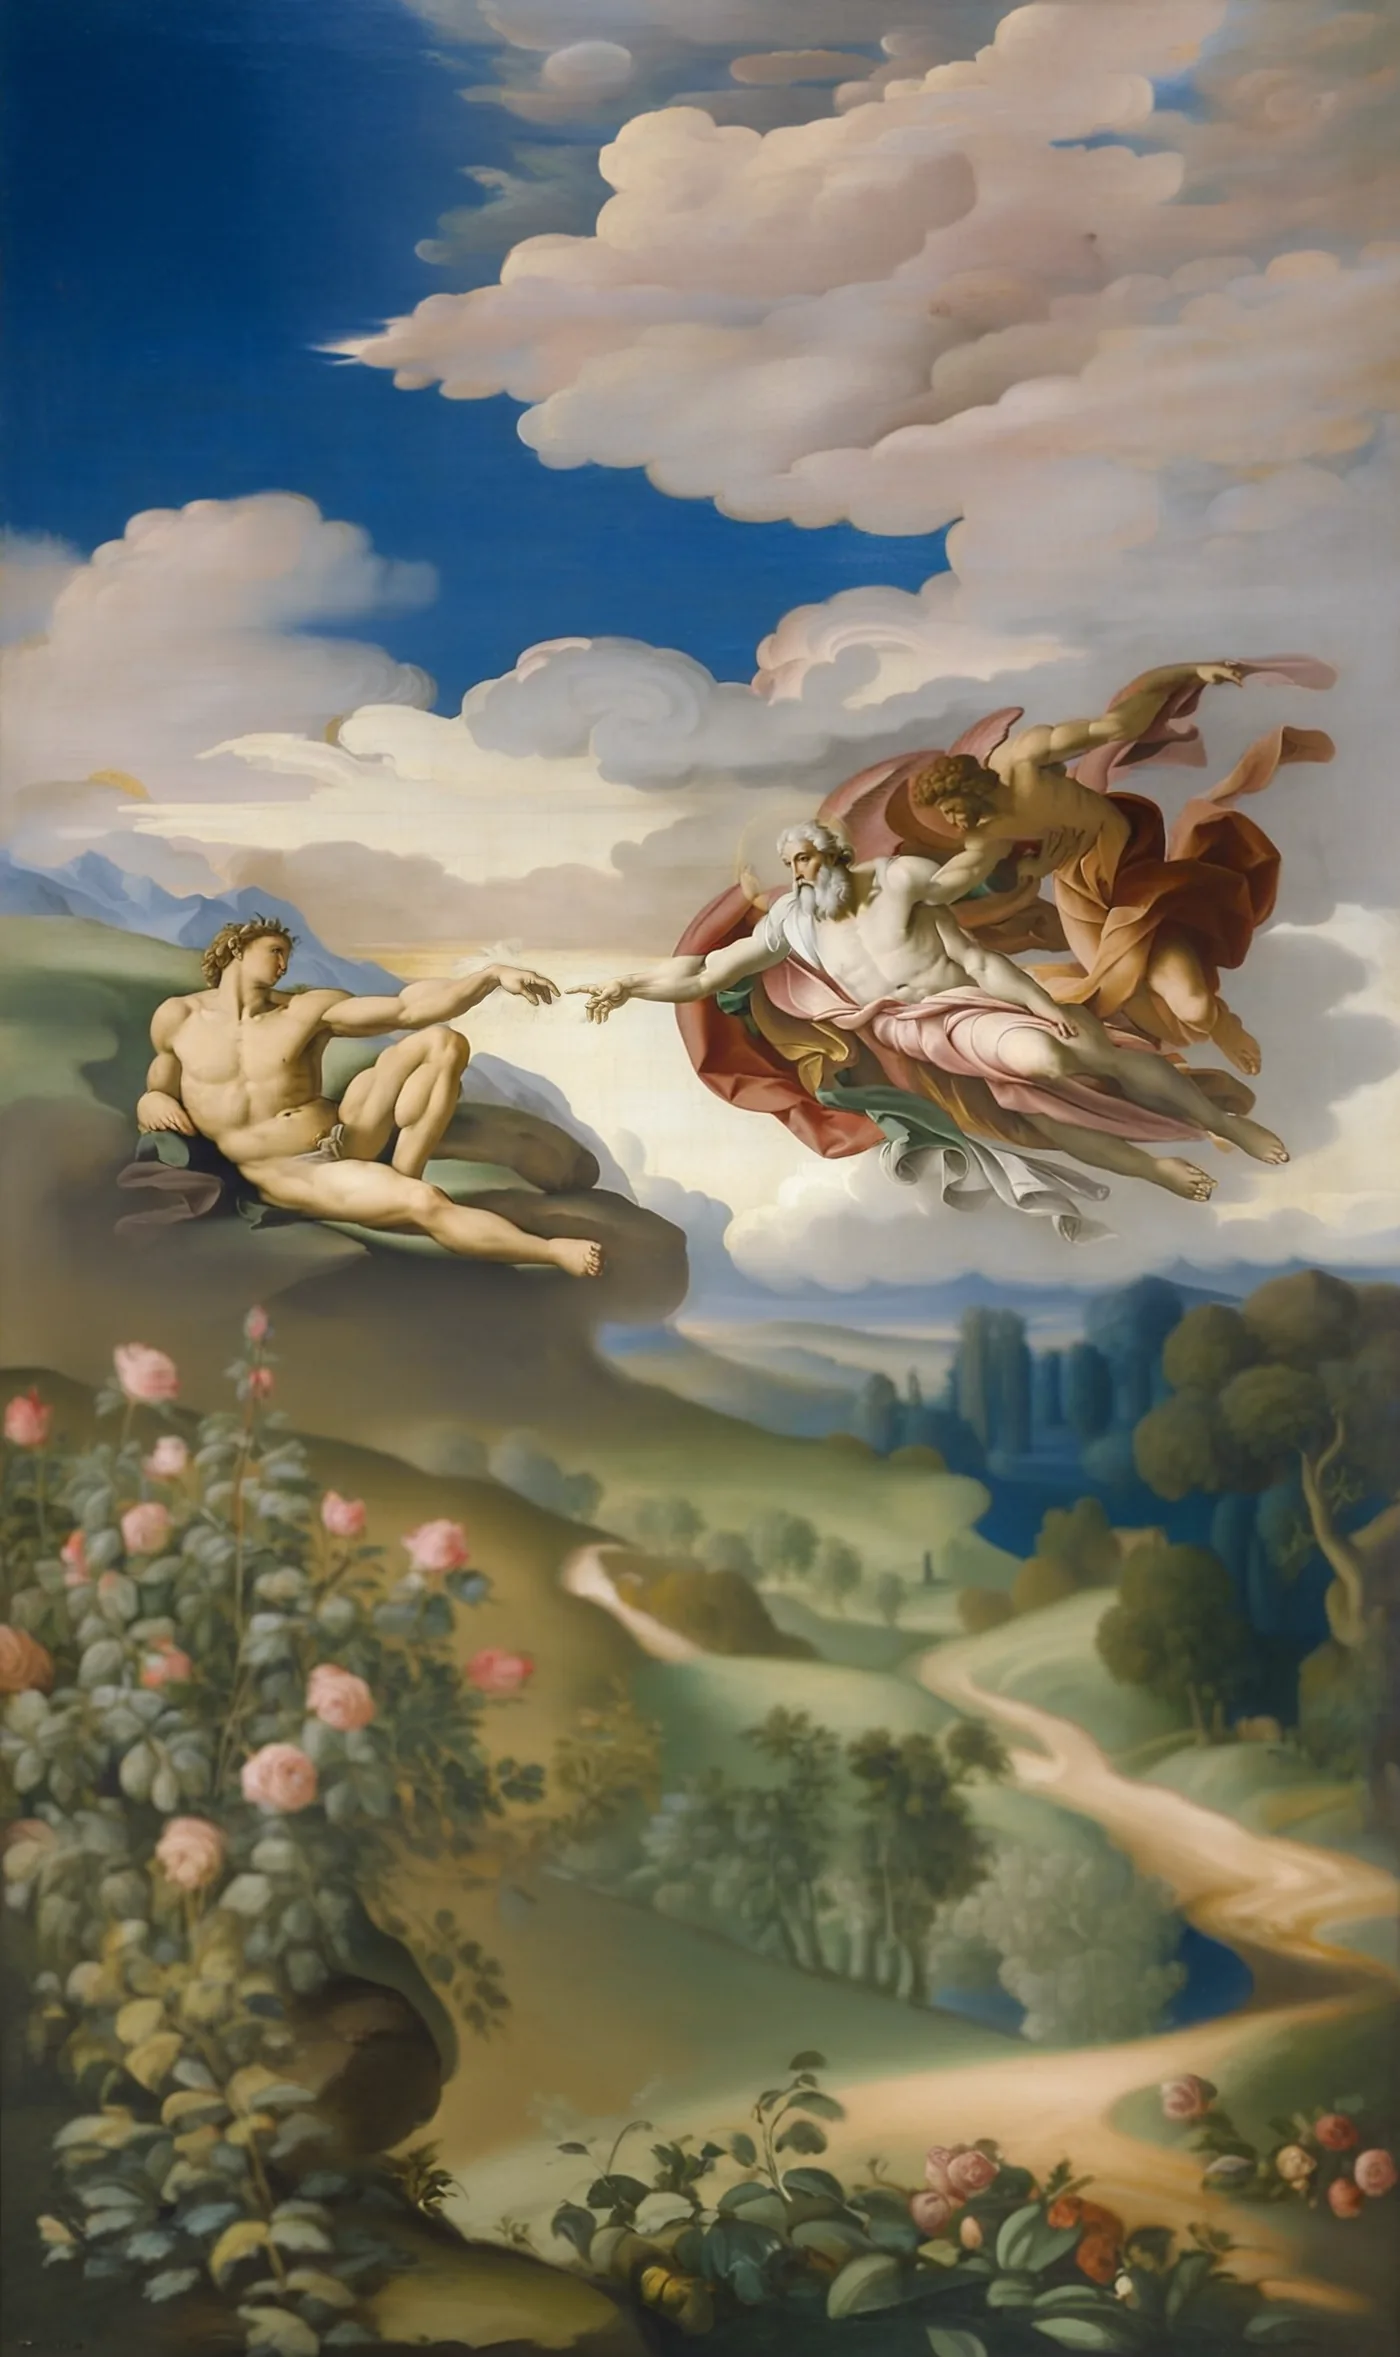
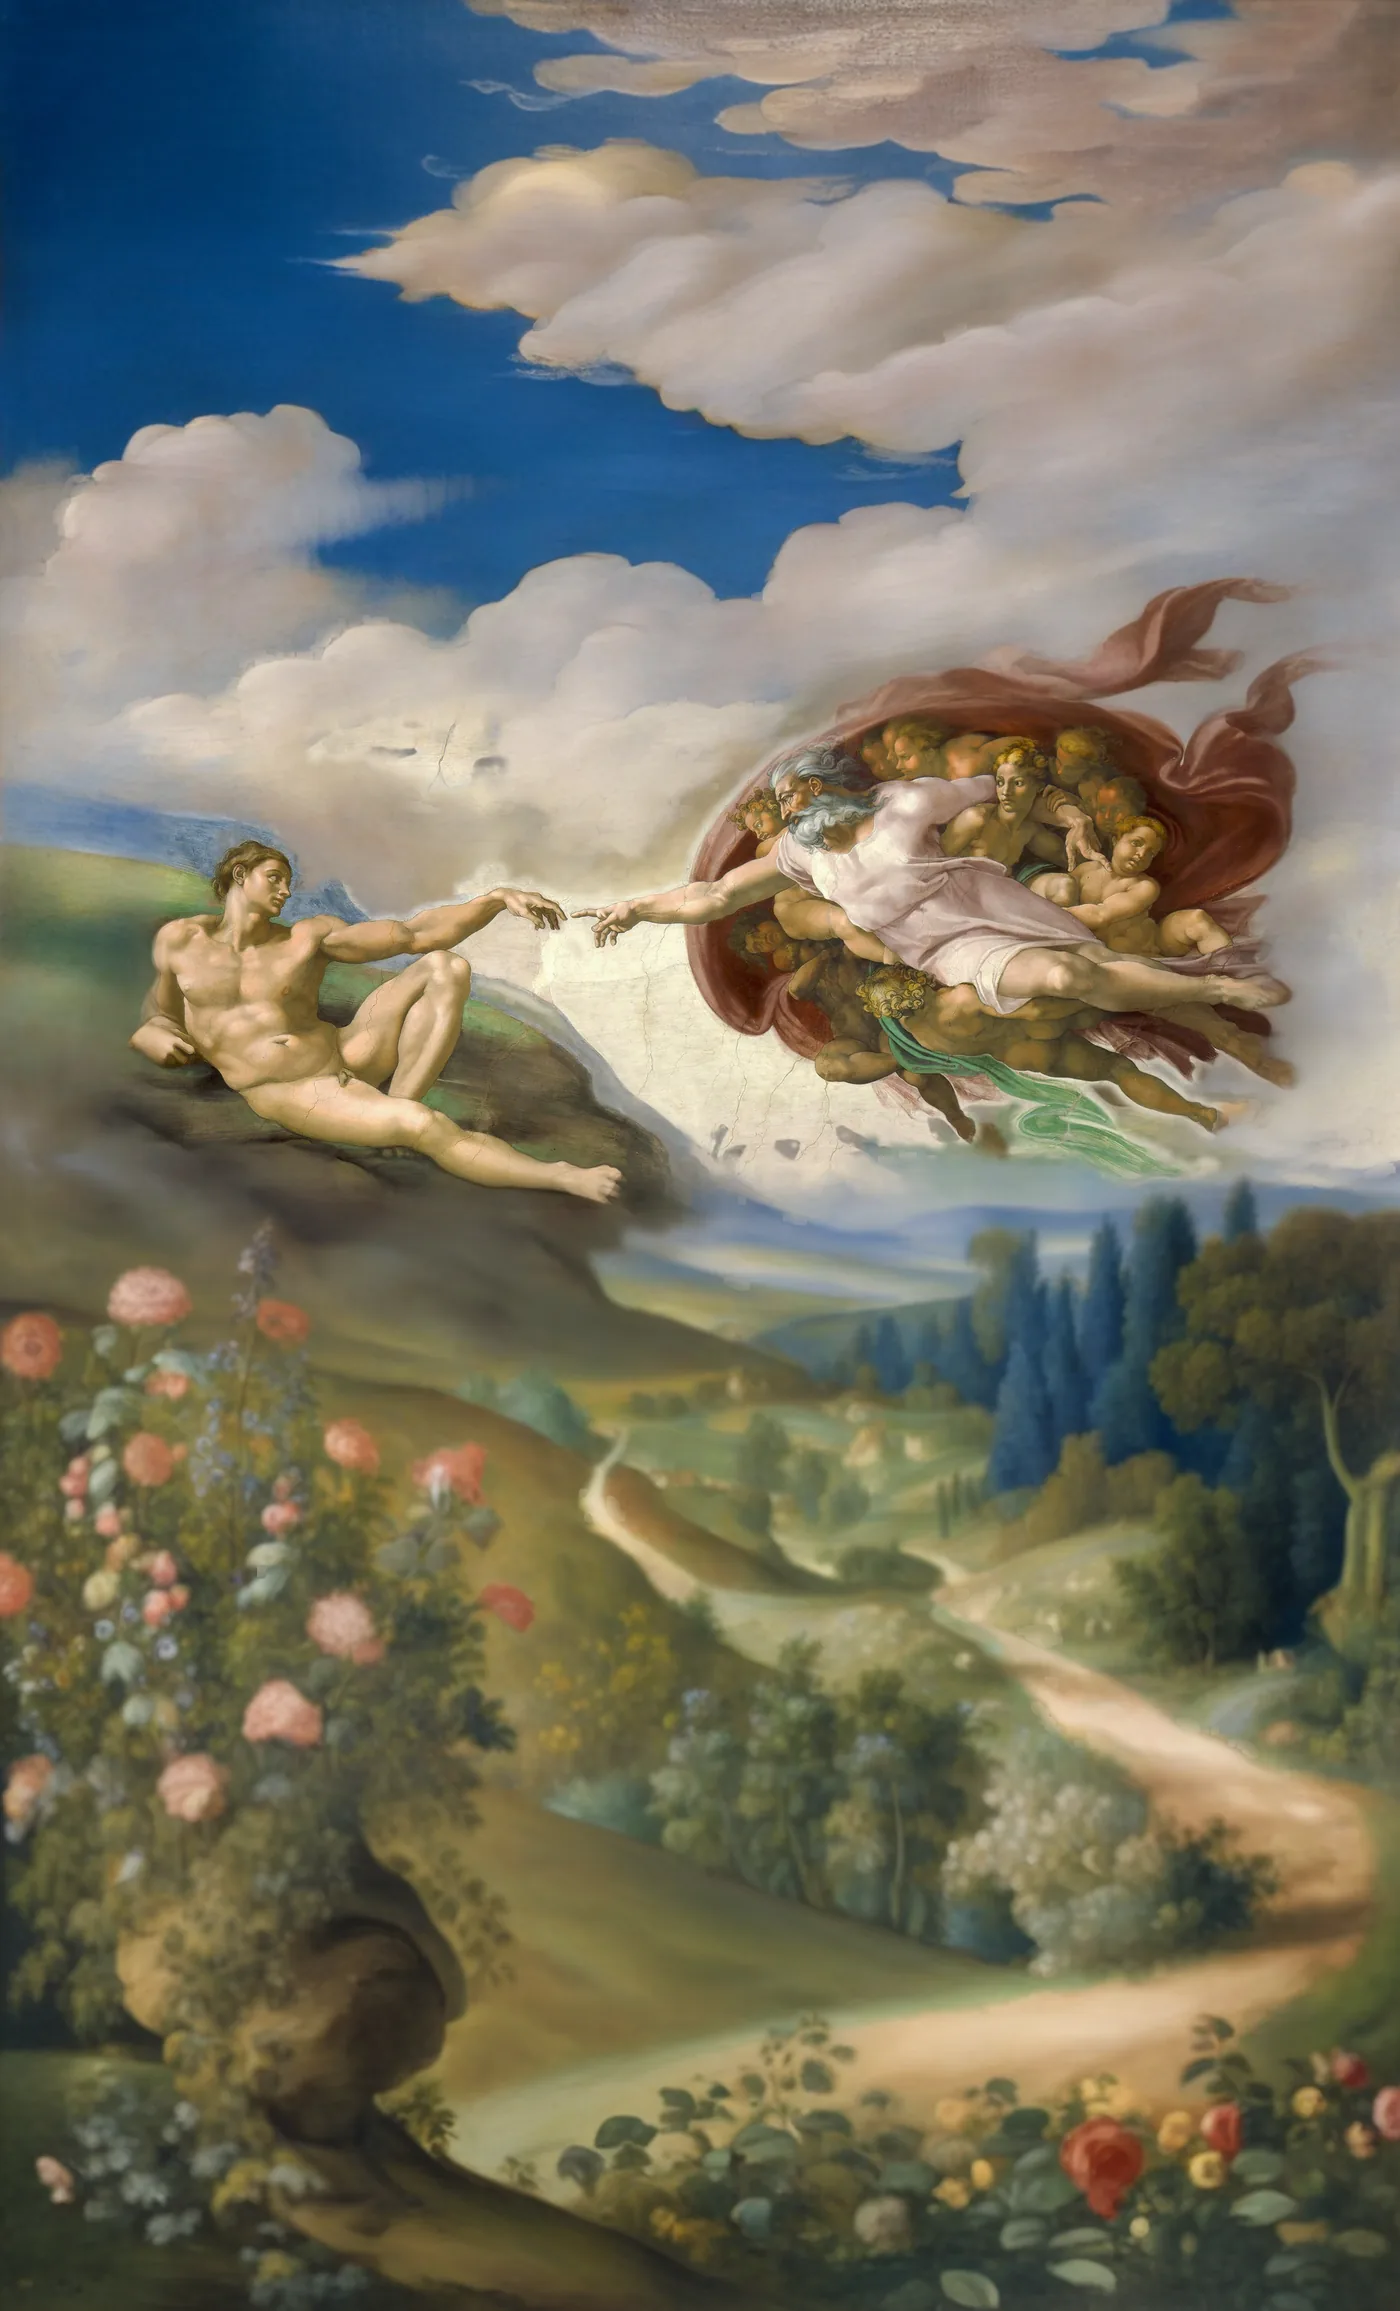
Day returns to Michelangelo's own figures
The redraw drifted (God's arm fused with an angel's into a third hand,
the gesture reversed). The day is again his fresco, figures exactly as he
painted them - God reaching, Adam languid - in the grown sky and Eden,
now painted densely with named faces and hands. New tall phone version.

diff --git a/public/main.js b/public/main.js
@@ -45,8 +45,8 @@ const load = src => new Promise((res, rej) => { const i = new Image(); i.onload 
 // each picture is one painting grown past Michelangelo's frame; wide and tall screens are cut from it around its focus
 const shape = innerWidth / innerHeight >= .8 ? 'wide' : 'tall';
 if (!gl) { root.classList.add('no-gl'); ready(); }
-else fetch('/img/scene.json?v=1791871054').then(r => r.json()).then(meta =>
-  Promise.all([shape === 'wide' ? 'night-wide' : 'night', shape === 'wide' ? 'night-wide-flow' : 'night-flow', shape === 'wide' ? 'day' : 'day-tall', shape === 'wide' ? 'day-flow' : 'day-tall-flow', shape === 'wide' ? 'supper' : 'supper-tall', shape === 'wide' ? 'supper-flow' : 'supper-tall-flow'].map(n => load(`/img/${n}.webp?v=1791871054`)))
+else fetch('/img/scene.json?v=1791881201').then(r => r.json()).then(meta =>
+  Promise.all([shape === 'wide' ? 'night-wide' : 'night', shape === 'wide' ? 'night-wide-flow' : 'night-flow', shape === 'wide' ? 'day' : 'day-tall', shape === 'wide' ? 'day-flow' : 'day-tall-flow', shape === 'wide' ? 'supper' : 'supper-tall', shape === 'wide' ? 'supper-flow' : 'supper-tall-flow'].map(n => load(`/img/${n}.webp?v=1791881201`)))
     .then(ims => paint(gl, ims, meta[shape])))
   .catch(e => { console.error(String(e && e.message || e)); root.classList.add('no-gl'); ready(); });   // log, then fall back
 

diff --git a/public/index.html b/public/index.html
@@ -19,7 +19,7 @@
 <link rel="preconnect" href="https://fonts.googleapis.com">
 <link rel="preconnect" href="https://fonts.gstatic.com" crossorigin>
 <link rel="stylesheet" href="https://fonts.googleapis.com/css2?family=Cinzel:wght@400;500&family=Cormorant+Garamond:ital,wght@0,300;0,400;1,300;1,400&display=swap">
-<link rel="stylesheet" href="/style.css?v=1791871054">
+<link rel="stylesheet" href="/style.css?v=1791881201">
 <script>document.documentElement.classList.add('js')</script>
 </head>
 <body>
@@ -84,6 +84,6 @@
 
 
 <noscript><style>.reveal,.reveal-words,.display .line>span{opacity:1!important;transform:none!important}</style></noscript>
-<script type="module" src="/main.js?v=1791871054"></script>
+<script type="module" src="/main.js?v=1791881201"></script>
 </body>
 </html>

diff --git a/README.md b/README.md
@@ -5,7 +5,7 @@ The landing page of a family office. It names no one: the vision is the point.
 **A living painting: Michelangelo's world, finished.** Two Sistine Chapel frescoes are grown past Michelangelo's frame into whole paintings, then repainted live in Van Gogh's brushwork, stroke by stroke. Night turns to day (Gen 1:5):
 
 1. **Night: Ivan Aivazovsky, *Chaos. The Creation* (1841).** God appears as a figure of light breaking through the storm over the dark deep: "darkness was upon the face of the deep… Let there be light" (Gen 1:2–3). Phones see his canvas whole (glare edge cropped). Desktops see it widened by `tools/widen.py` (his canvas kept exactly; the storm and sea continued either side, colour-matched band by band) with the seams healed by `tools/seams.py`. The brush is calmer and finer at night, the fine work around God's light especially, and the ground beneath is his own soft painting.
-2. **Day: *The Creation of Adam*.** Scrolling repaints the canvas outward from the hands into the finished world. Adam lies on his hill, and below opens the Garden of Eden: a valley with a winding path, cypresses and leafy trees, and roses and wildflowers. *Beloved, I wish above all things that thou mayest prosper and be in health, even as thy soul prospereth* (3 John 1:2).
+2. **Day: *The Creation of Adam*, Michelangelo's own figures, untouched.** Scrolling repaints the canvas outward from the hands into the finished world. Adam lies on his hill, and below opens the Garden of Eden: a valley with a winding path, cypresses and leafy trees, and roses and wildflowers. *Beloved, I wish above all things that thou mayest prosper and be in health, even as thy soul prospereth* (3 John 1:2).
 
 3. **The Last Supper: Leonardo da Vinci (1495–98).** Scrolling repaints the day outward from Christ into the upper room. *For I was an hungred, and ye gave me meat … I was sick, and ye visited me* (Matthew 25:35–36). The 17th-century doorway cut through the bottom of the wall is repainted (`tools/supper.py`: tablecloth, Christ's feet, the floor). Phones see the centre of the table, with the ceiling and floor continued by `tools/tallen.py`.
 
